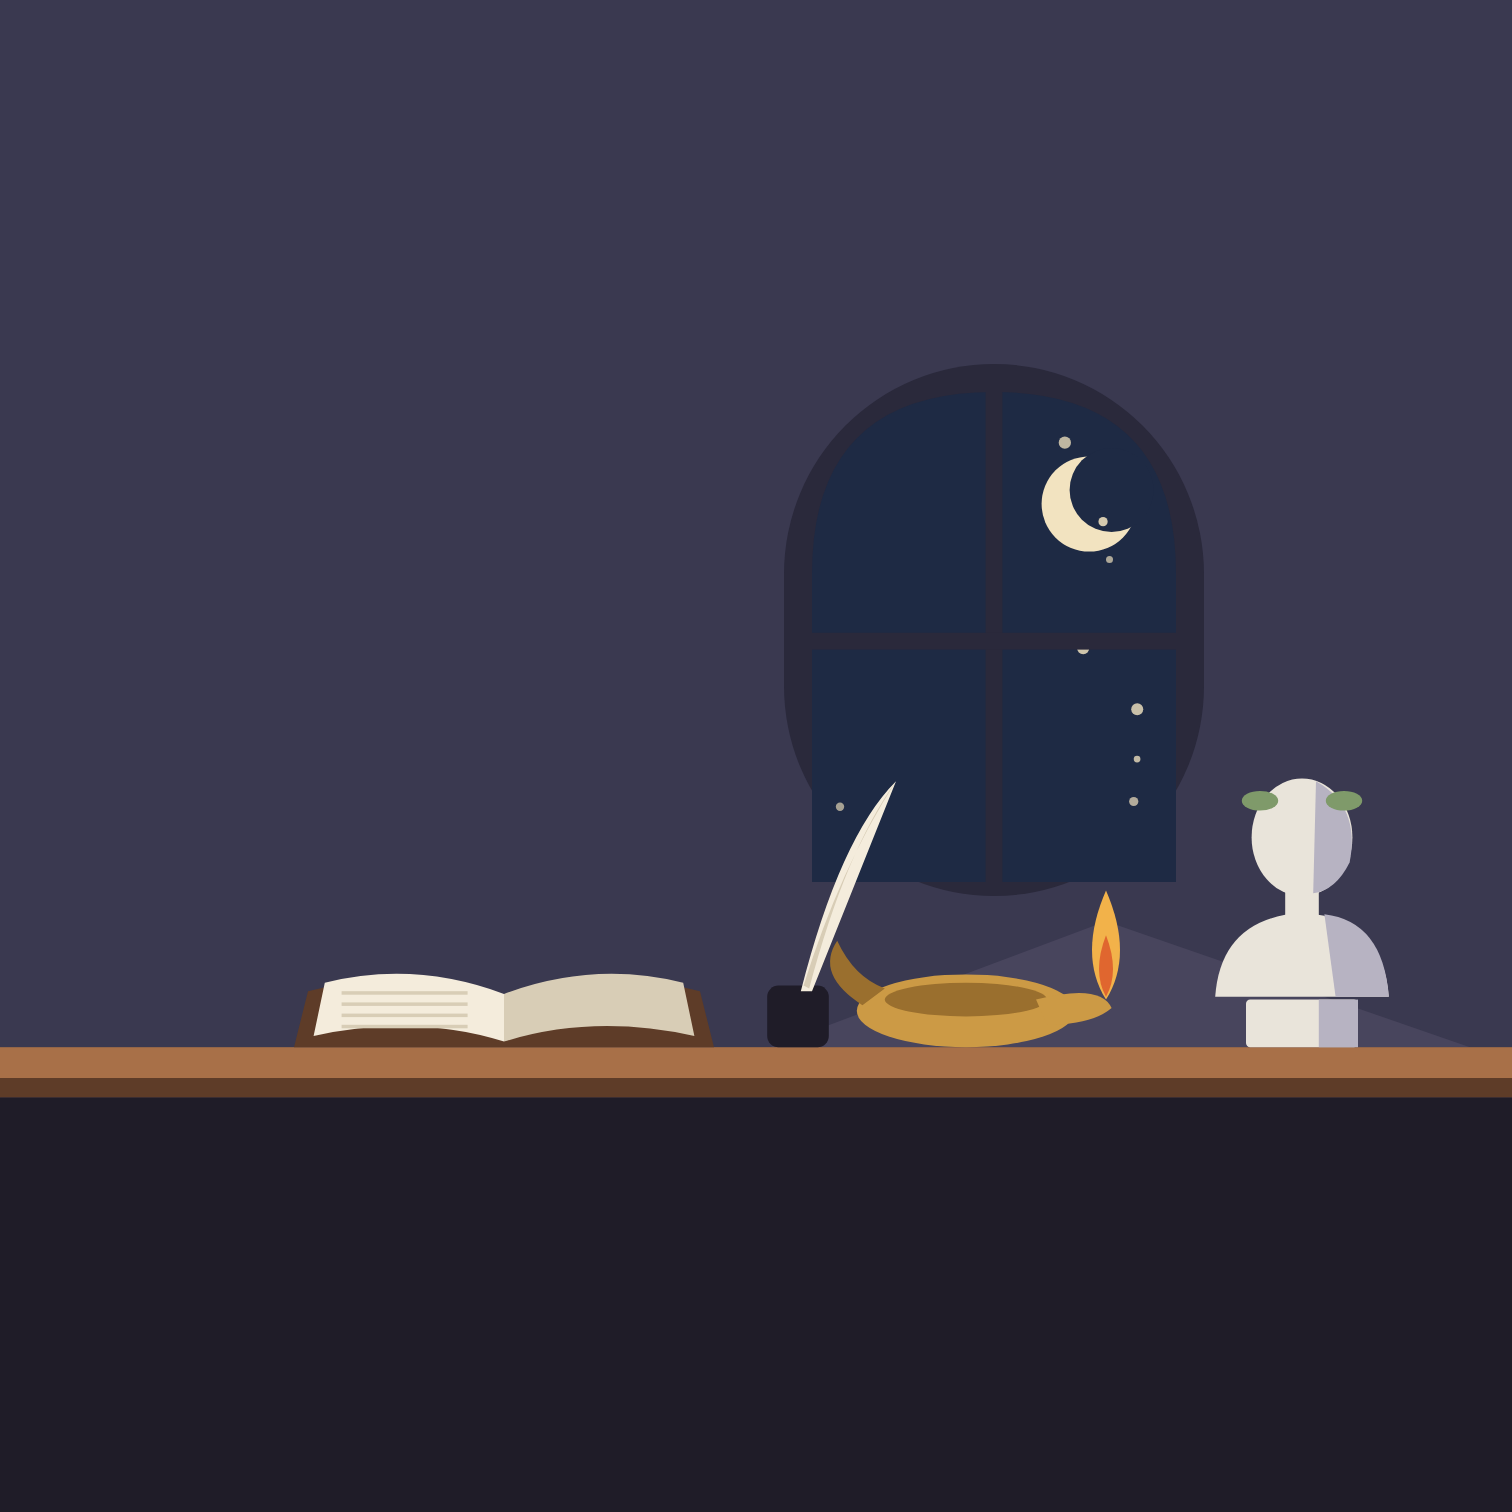
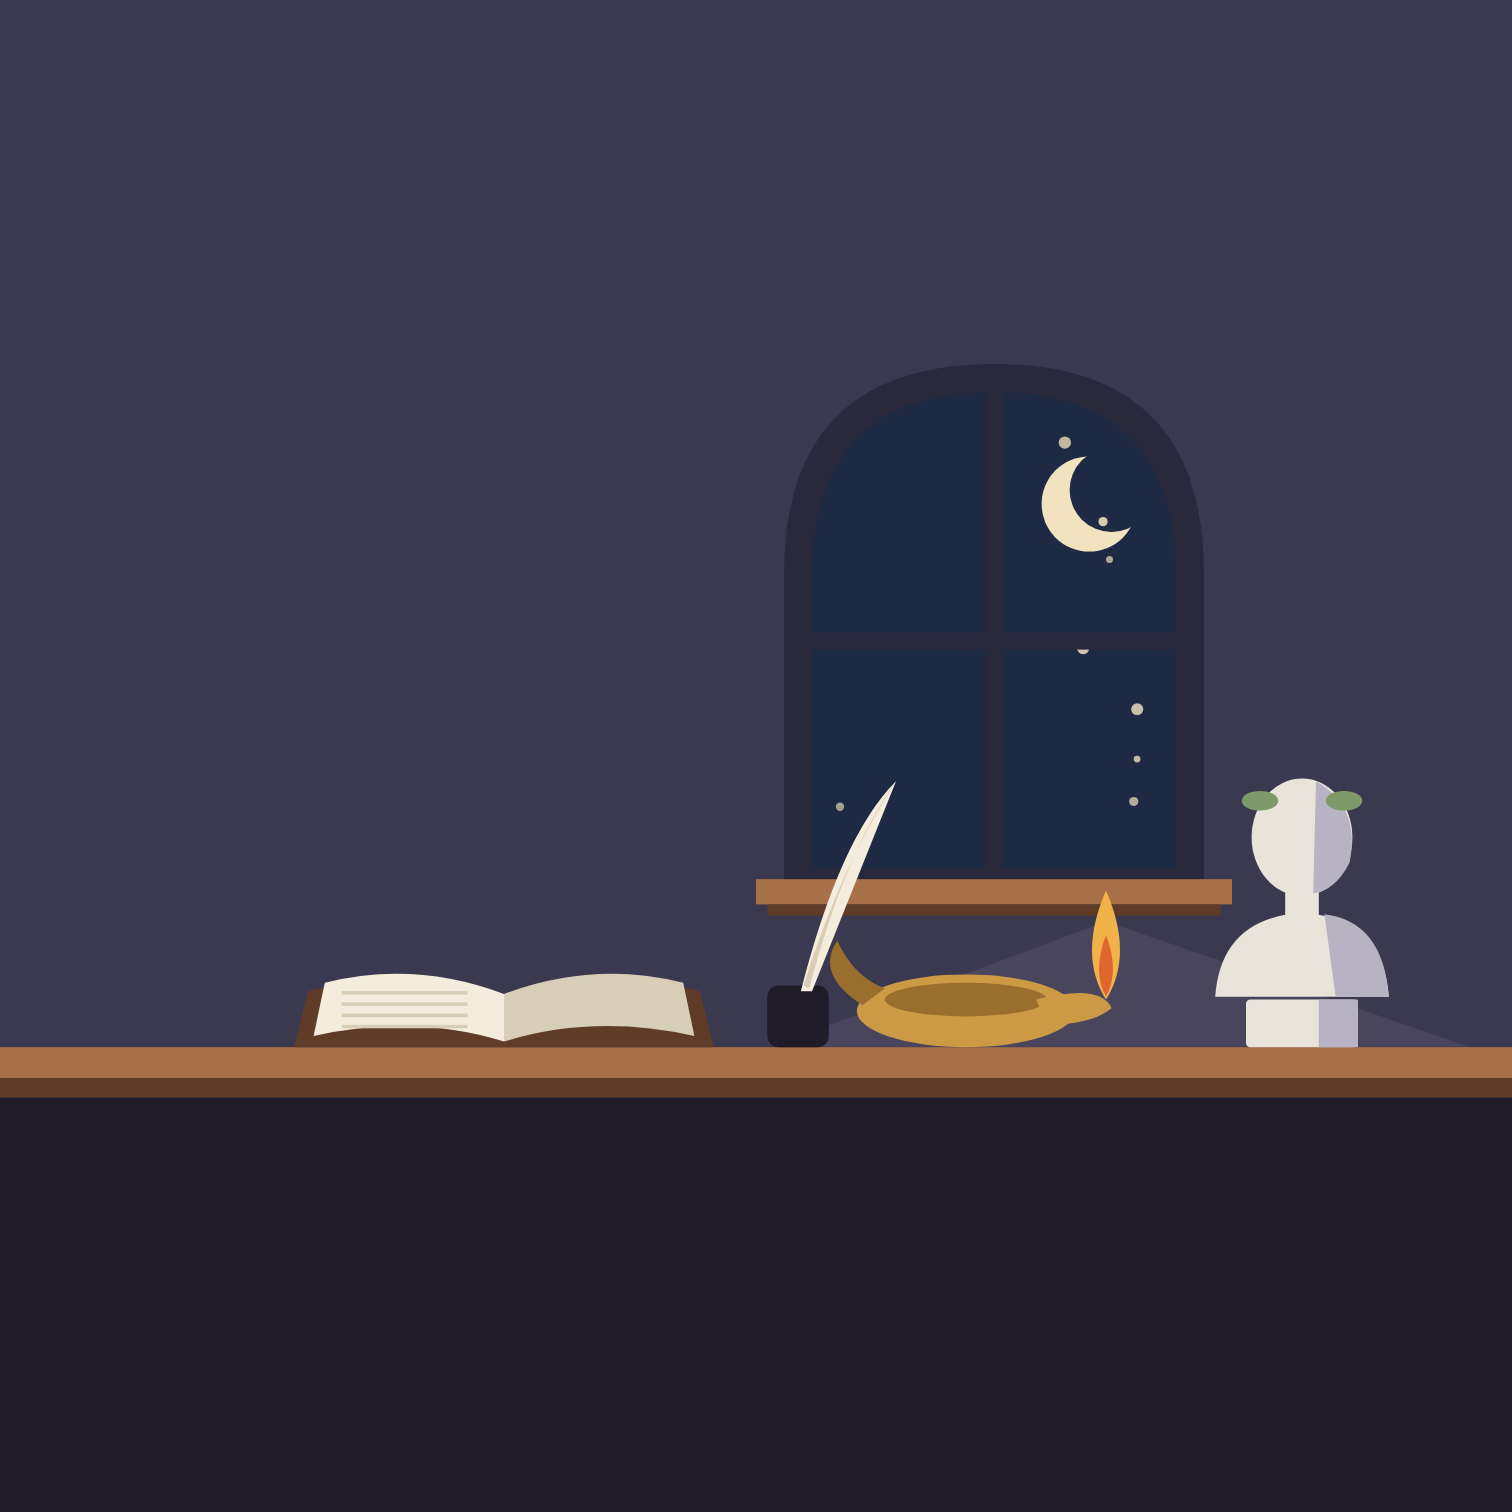
fix: Quick Start never disappears, and the study window frames its night
With one lesson on each road, a reader who had read all seven met a Home with
no Quick Start: pickQuickStart returned null once nothing was left. It now
offers a lesson to READ IT AGAIN, and check:subjects §11 runs the pick against
a finished library. The philosopher's-study picture's window was a pill whose
night ran below its round bottom; it is an arch on a flat bottom with a sill.

Changed region(s): [[0.4974, 0.5595, 0.8082, 0.6217]]

diff --git a/components/home/quickStartScenes.ts b/components/home/quickStartScenes.ts
@@ -266,10 +266,17 @@ function philosophyStudy(): QsScene {
     wood: '#8A5A3B', woodL: '#A87048', woodD: '#5E3C28', page: '#F4ECDC', pageSh: '#D8CDB6', brass: '#CC9A45', brassD: '#9A6F2E',
     flame: '#F2B24A', flameD: '#E0662F', ink: '#1F1C28', laurel: '#7F9A6A', bust: '#E9E4DA', bustSh: '#B7B3C2' };
   const T = HORIZON - 12; // the desk top
-  // The arched window, set right of the tab, with the moon and a few stars.
-  const win = rect(560, 260, 300, 380, C.frame, 150) + path('M580 630 V410 Q580 280 710 280 Q840 280 840 410 V630 Z', C.night)
+  // The arched window, set right of the tab, with the moon and a few stars. THE VIEW
+  // ENDS AT THE SILL (2026-09-30): the frame was a pill — round at the bottom as well
+  // as the top — and the square-cornered night inside it ran out below its curve, so the
+  // sky seemed to carry on down the wall: *"the outside isn't properly framed to be
+  // outside the window."* The frame is an arch on a flat bottom now, the night stops at
+  // its bottom rail, and a sill sits under it.
+  const win = path('M560 640 V410 Q560 260 710 260 Q860 260 860 410 V640 Z', C.frame)
+    + path('M580 620 V410 Q580 280 710 280 Q840 280 840 410 V620 Z', C.night)
     + circle(778, 360, 34, C.moon) + circle(794, 350, 30, C.night)
-    + stars(9, 7, 600, 300, 830, 600, C.star) + rect(704, 280, 12, 350, C.frame) + rect(580, 452, 260, 12, C.frame);
+    + stars(9, 7, 600, 300, 830, 600, C.star) + rect(704, 280, 12, 340, C.frame) + rect(580, 452, 260, 12, C.frame)
+    + rect(540, 628, 340, 18, C.woodL) + rect(548, 646, 324, 8, C.woodD);
   // The desk and what is on it.
   const desk = rect(0, T, QS_CANVAS, 22, C.woodL) + rect(0, T + 22, QS_CANVAS, 14, C.woodD);
   // An open book, pages falling from the gutter.

diff --git a/lib/utils/quickStart.ts b/lib/utils/quickStart.ts
@@ -8,6 +8,8 @@ export interface QuickStartPick {
   /** 1-based position of this lesson within its branch, for "LESSON 7 OF 29". */
   indexInBranch: number;
   branchTotal: number;
+  /** Every lesson on every road is finished, and this is one to read AGAIN. */
+  again?: boolean;
 }
 
 /**
@@ -75,7 +77,26 @@ export function pickQuickStart(
     const next = nextInBranch(branch, lessonsByUnit);
     if (next) open.push(next);
   }
-  if (open.length === 0) return null; // nothing left anywhere — every lesson done
+  // NOTHING LEFT ANYWHERE, AND THE CARD STAYS (2026-09-30). It used to return null
+  // here and Home lost its biggest card — which, with one lesson on each of seven
+  // roads, is what happened to anybody who had read all seven: *"the quick start
+  // pictures and quick start box is completely gone."* A finished library still has
+  // lessons worth reading again, so the card offers one, on the same two clocks as
+  // below, and says so (`again`).
+  if (open.length === 0) {
+    const all: QuickStartPick[] = [];
+    for (const branch of ALL_BRANCHES) {
+      const branchTotal = branch.paths.reduce((n, u) => n + u.lessons.length, 0);
+      let at = 0;
+      for (const unit of branch.paths) for (const lesson of unit.lessons) {
+        at += 1;
+        all.push({ branch, unit, lesson, indexInBranch: at, branchTotal, again: true });
+      }
+    }
+    if (!all.length) return null;
+    const read = Object.values(lessonsByUnit).reduce((n, v) => n + (v > 0 ? v : 0), 0);
+    return all[shuffleSeed(dayNumber + read) % all.length];
+  }
 
   const done = Object.values(lessonsByUnit).reduce((n, v) => n + (v > 0 ? v : 0), 0);
 

diff --git a/components/home/QuickStartCard.tsx b/components/home/QuickStartCard.tsx
@@ -46,8 +46,8 @@ interface Props {
  * The one big invitation on the home screen: the next lesson this learner can
  * actually open, on a different branch each day, over a photograph.
  *
- * Renders nothing at all once every lesson in every branch is finished — a card
- * that says "start a lesson" and can't is worse than no card.
+ * Once every lesson on every road is finished it offers one to READ AGAIN rather
+ * than disappearing (`pick.again`) — Home without its biggest card reads as broken.
  *
  * AND UNTIL THE PROFESSOR'S INTRO HAS BEEN WATCHED, IT IS THE INTRO (2026-09-25).
  * The same card, the same sky, the same ledge — it is the first door into the
@@ -95,7 +95,7 @@ export default function QuickStartCard({ style }: Props) {
   const tab = intro ? 'QUICK START · INTRO' : 'QUICK START';
   const title = intro ? 'Your first lecture' : pick!.lesson.title;
   const meta = intro ? 'WITH THE PROFESSOR · 1 MIN' : `${pick!.branch.name} · ${pick!.lesson.estimatedMinutes} MIN`;
-  const cta = intro ? '▶   START THE INTRO' : '▶   START LESSON';
+  const cta = intro ? '▶   START THE INTRO' : pick!.again ? '▶   READ IT AGAIN' : '▶   START LESSON';
 
   return (
     // ON THE TEAL LEDGE (2026-09-16), like the app's primary button: the card is
